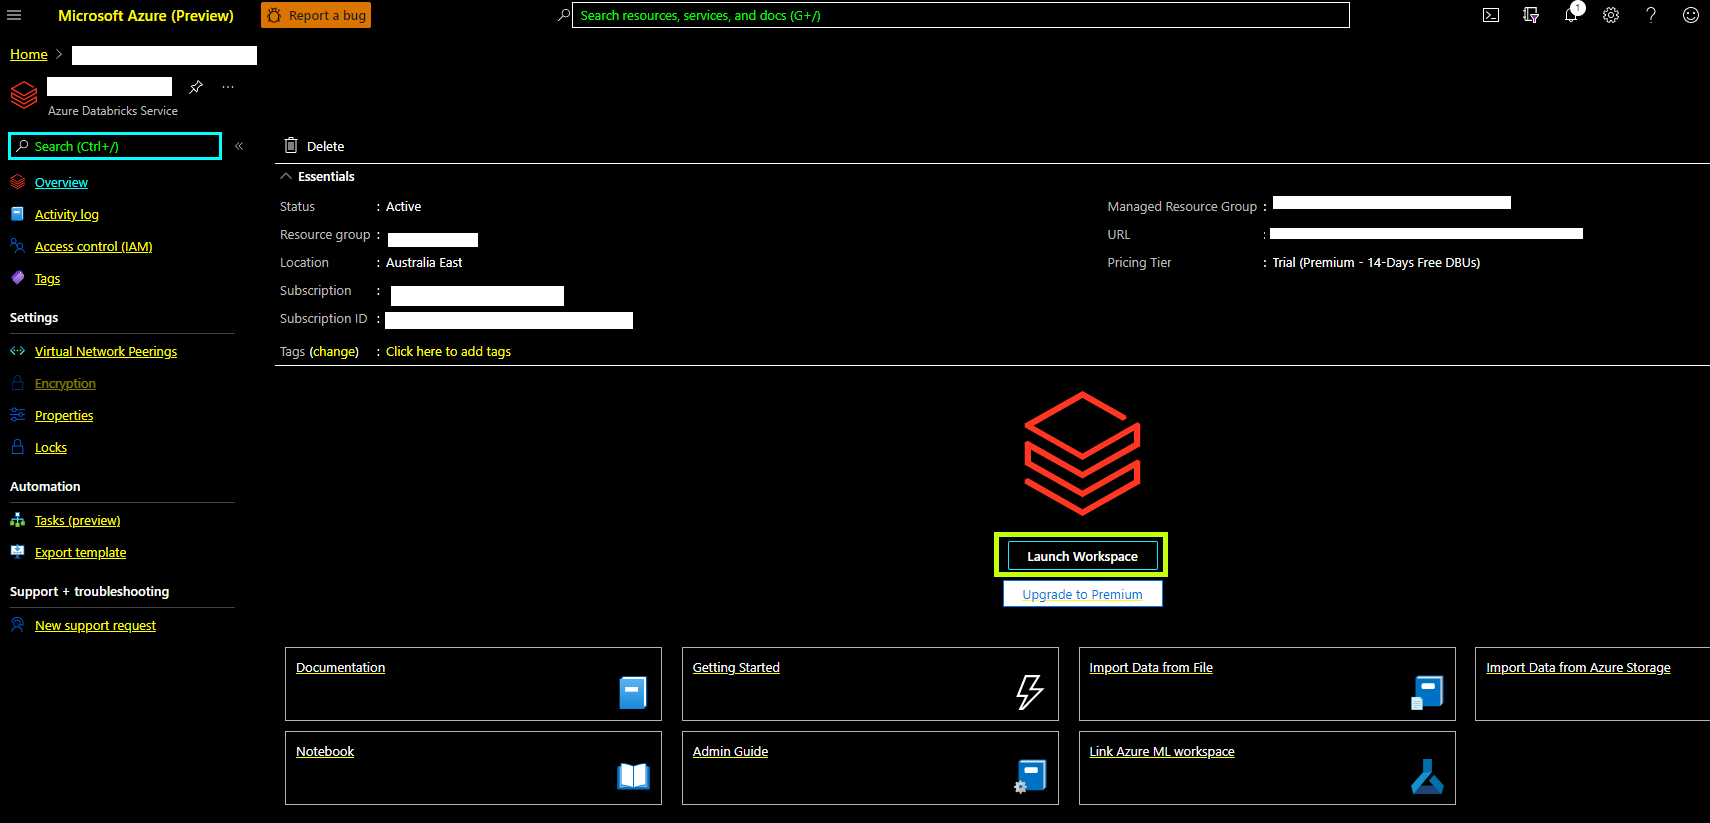
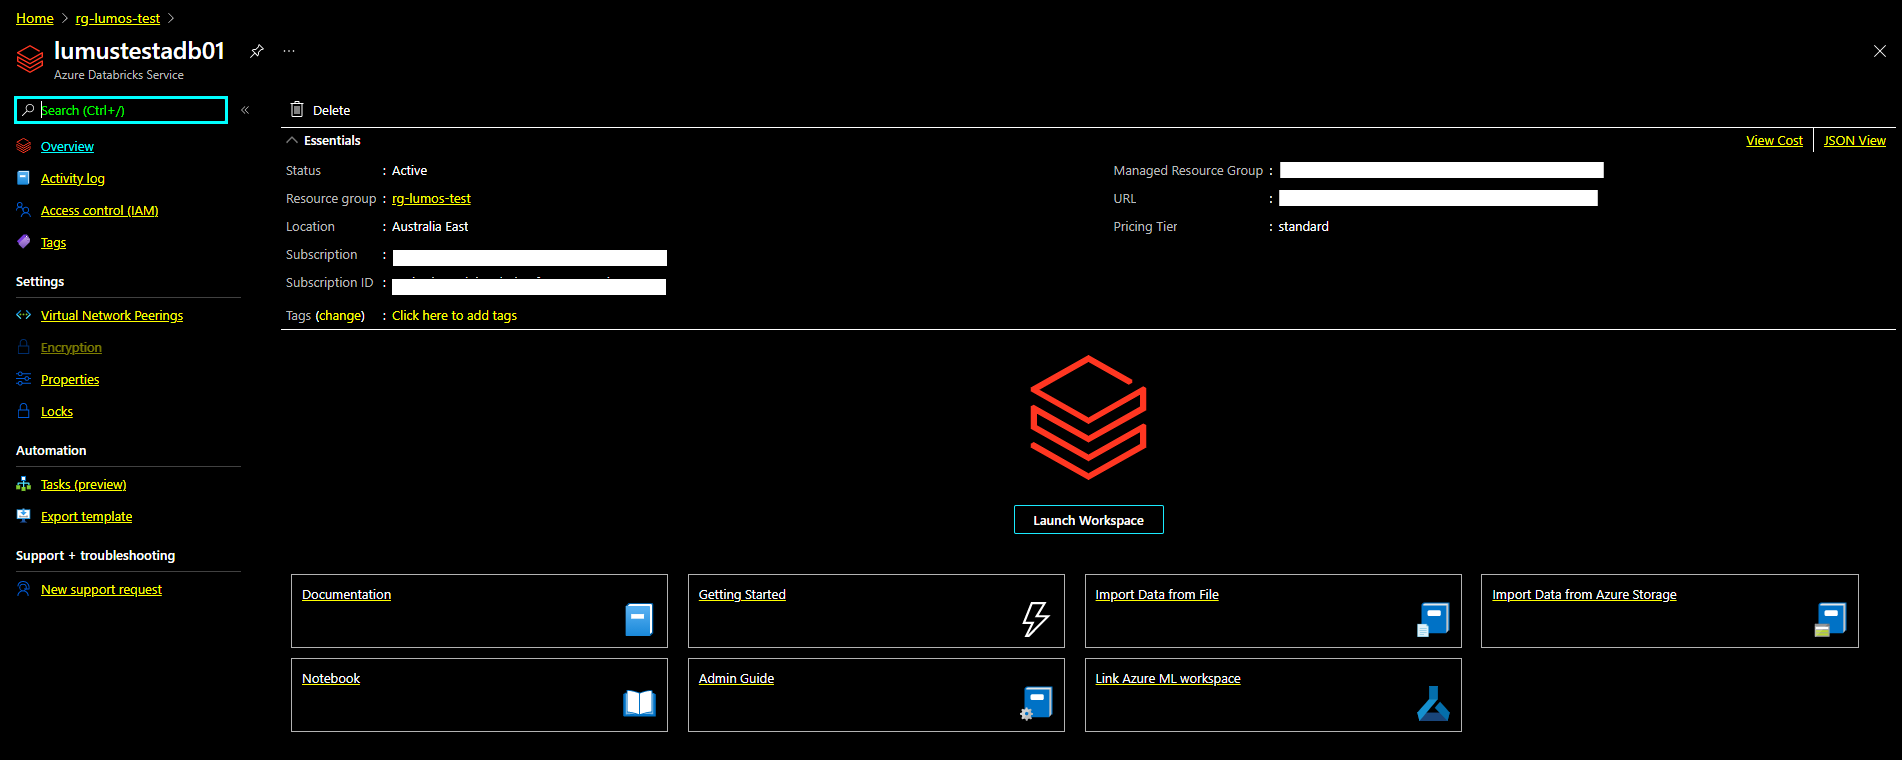
Updated Readme
- Updated the deployment steps and artefacts
- Updated validation steps

diff --git a/single_tech_samples/databricks/Cluster_Deployment/README.md b/single_tech_samples/databricks/Cluster_Deployment/README.md
@@ -16,8 +16,8 @@
     - [4.3. Deployed Resources](#43-deployed-resources)
     - [4.4. Deployment validation](#44-deployment-validation)
     - [4.5. Clean-up](#45-clean-up)
-  - [5. Well Architected Framework (WAF)](#5-well-architected-framework-waf)
-    - [5.1. Cost Optimisation](#51-cost-optimisation)
+  - [5. Well-Architected Framework (WAF)](#5-well-architected-framework-waf)
+    - [5.1. Cost Optimization](#51-cost-optimization)
     - [5.2. Operational Excellence](#52-operational-excellence)
     - [5.3. Performance Efficiency](#53-performance-efficiency)
     - [5.4. Reliability](#54-reliability)
@@ -76,7 +76,7 @@ The following are the prerequisites for deploying this sample :
 
 1. [Github account](https://github.com/)
 2. [Azure Account](https://azure.microsoft.com/en-au/free/search/?&ef_id=Cj0KCQiAr8bwBRD4ARIsAHa4YyLdFKh7JC0jhbxhwPeNa8tmnhXciOHcYsgPfNB7DEFFGpNLTjdTPbwaAh8bEALw_wcB:G:s&OCID=AID2000051_SEM_O2ShDlJP&MarinID=O2ShDlJP_332092752199_azure%20account_e_c__63148277493_aud-390212648371:kwd-295861291340&lnkd=Google_Azure_Brand&dclid=CKjVuKOP7uYCFVapaAoddSkKcA)
-   - *Permissions needed*: ability to create and deploy to an azure [resource group](https://docs.microsoft.com/en-us/azure/azure-resource-manager/management/overview), a [service principal](https://docs.microsoft.com/en-us/azure/active-directory/develop/app-objects-and-service-principals), and grant the [collaborator role](https://docs.microsoft.com/en-us/azure/role-based-access-control/overview) to the service principal over the resource group.
+   - *Permissions needed*:  The ability to create and deploy to an azure [resource group](https://docs.microsoft.com/en-us/azure/azure-resource-manager/management/overview), a [service principal](https://docs.microsoft.com/en-us/azure/active-directory/develop/app-objects-and-service-principals), and grant the [collaborator role](https://docs.microsoft.com/en-us/azure/role-based-access-control/overview) to the service principal over the resource group.
 
    - Active subscription with the following [resource providers](https://docs.microsoft.com/en-us/azure/azure-resource-manager/management/azure-services-resource-providers) enabled:
      - Microsoft.Databricks
@@ -88,31 +88,40 @@ The following are the prerequisites for deploying this sample :
 
 1. [Azure CLI](https://docs.microsoft.com/en-us/cli/azure/) installed on the local machine
    - *Installation instructions* can be found [here](hhttps://docs.microsoft.com/en-us/cli/azure/install-azure-cli)
-1. For Windows users, [Windows Subsystem for Linux](https://docs.microsoft.com/en-us/windows/wsl/install-win10)
+1. For Windows users,
+   1. Option 1 : [Windows Subsystem for Linux](https://docs.microsoft.com/en-us/windows/wsl/install-win10)
+   2. Option 2 : Use dev container published [here](../.devcontainer) as a host for the bash shell.
 
 ### 4.2. Setup and deployment
 
-> **IMPORTANT NOTE:** As with all Azure Deployments, this will **incur associated costs**. Remember to teardown all related resources after use to avoid unnecessary costs. See [here](#4.3.-deployed-resources) for list of deployed resources.
+> **IMPORTANT NOTE:** As with all Azure Deployments, this will **incur associated costs**. Remember to teardown all related resources after use to avoid unnecessary costs. See [here](#4.3.-deployed-resources) for a list of deployed resources.
 
 Below listed are the steps to deploy this sample :
 
-1. Ensure that:
-      - You are logged in to the Azure CLI. To login, run `az login`.
-      - Azure CLI is targeting the Azure Subscription you want to deploy the resources to.
-         - To set target Azure Subscription, run `az account set -s <AZURE_SUBSCRIPTION_ID>`
-2. Fork and clone this repository. Navigate to (CD) `single_tech_samples/databricks/cluster_deployment/`.
+1. Fork and clone this repository. Navigate to (CD) `single_tech_samples/databricks/cluster_deployment/`.
 
-3. Run '/deploy.sh'
+1. The sample depends on the following environment variables to be set before the deployment script is run:
+  
+    > - `DEPLOYMENT_PREFIX` - Prefix for the resource names which will be created as a part of this deployment
+    > - `AZURE_SUBSCRIPTION_ID` - Subscription ID of the Azure subscription where the resources should be deployed.
+    > - `AZURE_RESOURCE_GROUP_NAME` - Name of the containing resource group
+    > - `AZURE_RESOURCE_GROUP_LOCATION` - Azure region where the resources will be deployed. (e.g. australiaeast, eastus, etc.)
+    > - `DELETE_RESOURCE_GROUP` - Flag to indicate the cleanup step for the resource group
+
+1. Run '/deploy.sh'
+   > Note: The script will prompt you to log in to the Azure account for authorization to deploy resources.
+
+   The script will validate the ARM templates and the environment variables before deploying the resources. It will also display the status of each stage of the deployment while it executes. The following screenshot displays the log for a successful run:
+
+   > Note: `DEPLOYMENT_PREFIX` for this deployment was set as `lumustest`
+
+    ![alt text](../Common_Assets/Images/IAC_Script_Deploy.png "Logo Title Text 1")
 
 ### 4.3. Deployed Resources
 
 The following resources will be deployed as a part of this sample once the script is executed:
 
-1. Azure resource group - A logical container to host all the services required for the Azure Databricks environment.
-
-    - Following will be the naming convention used for the resource group: rg.TBD
-
-2. Azure Databricks workspace.
+1. Azure Databricks workspace.
 
 ![alt text](../Common_Assets/Images/IAC_Adb.png "Logo Title Text 1")
 
@@ -120,11 +129,9 @@ The following resources will be deployed as a part of this sample once the scrip
 
 ![alt text](../Common_Assets/Images/IAC_Storage.png "Logo Title Text 1")
 
-4. Azure Key vault
+4. Azure Key vault with all the secrets configured.
 
-The following diagram illustrates all the resources in teh provisioned resource group:
-
-**Screenshot here**
+![alt text](../Common_Assets/Images/IAC_Keyvault.png "Logo Title Text 1")
 
 ### 4.4. Deployment validation
 
@@ -133,27 +140,32 @@ The following steps can be performed to validate the correct deployment of this 
 1. Users with appropriate access rights should be able to:
 
    1. launch the workspace from the Azure portal.
-   2. Access the control plane for the storage account and key vault though Azure portal.
-   3. View deployment logs in the Azure resource group
+   2. Access the control plane for the storage account and key vault through the Azure portal.
+   3. View the secrets configured in the Azure Key vault
+   4. View deployment logs in the Azure resource group
    ![alt text](../Common_Assets/Images/IAC_Deployment_Logs.png "Logo Title Text 1")
 
 ### 4.5. Clean-up
 
 Please follow the below steps to clean up your environment :
 
-The clean-up script can be executed to clean up the resources provisioned in this sample. Following are ste steps to execute the script:
+The clean-up script can be executed to clean up the resources provisioned in this sample. Following are the steps to execute the script:
 
 1. Navigate to (CD) `single_tech_samples/databricks/cluster_deployment/`.
 
-2. Run '/cleanup.sh'
+2. Run '/destroy.sh'
 
-## 5. Well Architected Framework (WAF)
+The following screenshot displays the log for successful clean-up run:
 
-This section highlights key pointers to align the services deployed in this sample to Microsoft Azure 'Well Architected Framework'.
+  ![alt text](../Common_Assets/Images/IAC_Script_Teardown.png "Logo Title Text 1")
 
-### 5.1. Cost Optimisation
+## 5. Well-Architected Framework (WAF)
 
-1. Prior to the deployment, use [Azure pricing calculator](https://azure.microsoft.com/en-us/pricing/calculator/) to determine the expected usage cost.
+This section highlights key pointers to align the services deployed in this sample to Microsoft Azure's Well-Architected Framework'.
+
+### 5.1. Cost Optimization
+
+1. Before the deployment, use [Azure pricing calculator](https://azure.microsoft.com/en-us/pricing/calculator/) to determine the expected usage cost.
 
 2. Appropriately select the [Storage redundancy](https://docs.microsoft.com/en-us/azure/storage/common/storage-redundancy) option
 
@@ -161,13 +173,13 @@ This section highlights key pointers to align the services deployed in this samp
 
 4. Use [Azure Advisor](https://azure.microsoft.com/en-us/services/advisor/) to optimize deployments by leveraging the smart insights
 
-5. Use [Azure Policies](https://azure.microsoft.com/en-us/services/azure-policy/) to define guardrails around deployment constrains to regulate cost
+5. Use [Azure Policies](https://azure.microsoft.com/en-us/services/azure-policy/) to define guardrails around deployment constraints to regulate the cost
 
 ### 5.2. Operational Excellence
 
 1. Ensure that the parameters passed to the deployment scripts are validated
 
-1. Leverage parallel resource deployment where ever possible. In the scope of this sample, all the three resources can be deployed in parallel.
+1. Leverage parallel resource deployment where ever possible. In the scope of this sample, all three resources can be deployed in parallel.
 
 1. Validate compensation transactions for the deployment workflow.
 
@@ -179,7 +191,7 @@ This section highlights key pointers to align the services deployed in this samp
 
 ### 5.4. Reliability
 
-1. Define the availability requirements prior to the deployment and configure the storage and databricks service accordingly.
+1. Define the availability requirements before the deployment and configure the storage and databricks service accordingly.
 
 2. Ensure required capacity and services are available in targeted regions
 
@@ -187,11 +199,10 @@ This section highlights key pointers to align the services deployed in this samp
 
 ### 5.5. Security
 
-1. Ensure right privileges are granted to the provisioned resources.
+1. Ensure the right privileges are granted to the provisioned resources.
 
 2. Cater for regular audits to ensure ongoing Vigilance.
 
-3. Automate the execution of the deployment script and restrict the privilages to service accounts.
+3. Automate the execution of the deployment script and restrict the privileges to service accounts.
 
-4. Integrate with secure identity provider (Azure Active Directory)
-
+4. Integrate with the secure identity provider (Azure Active Directory)
